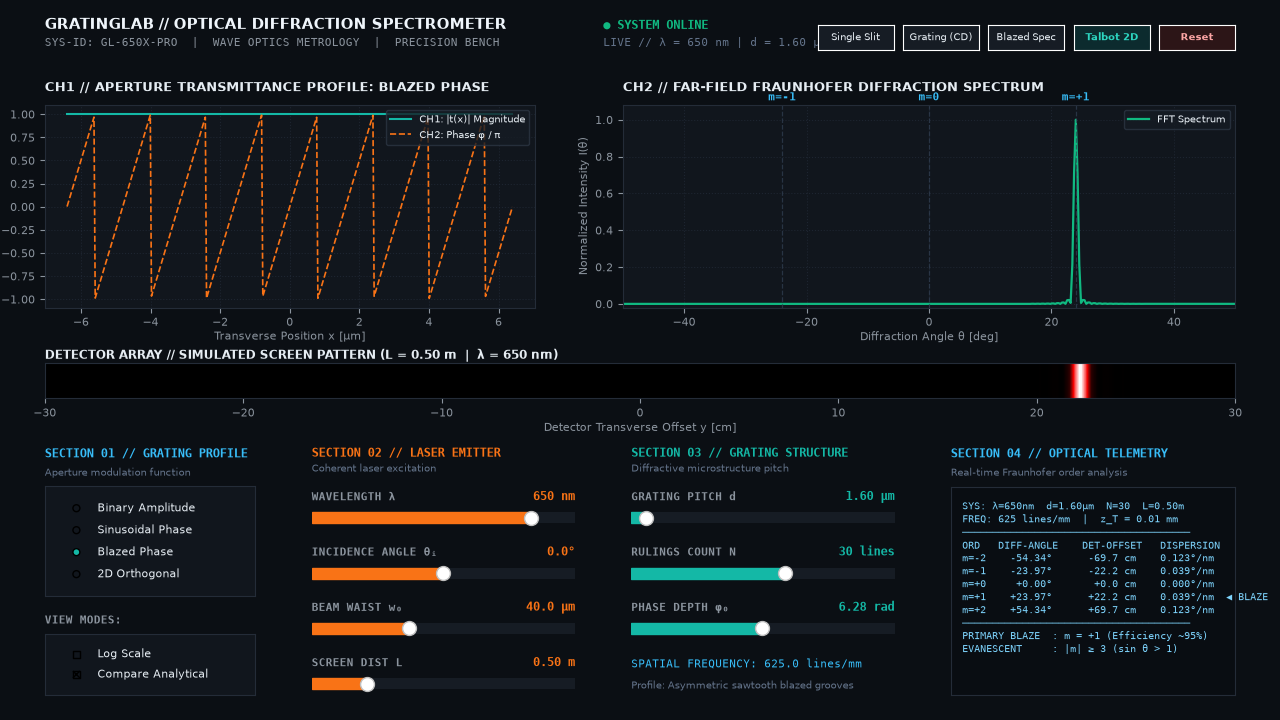
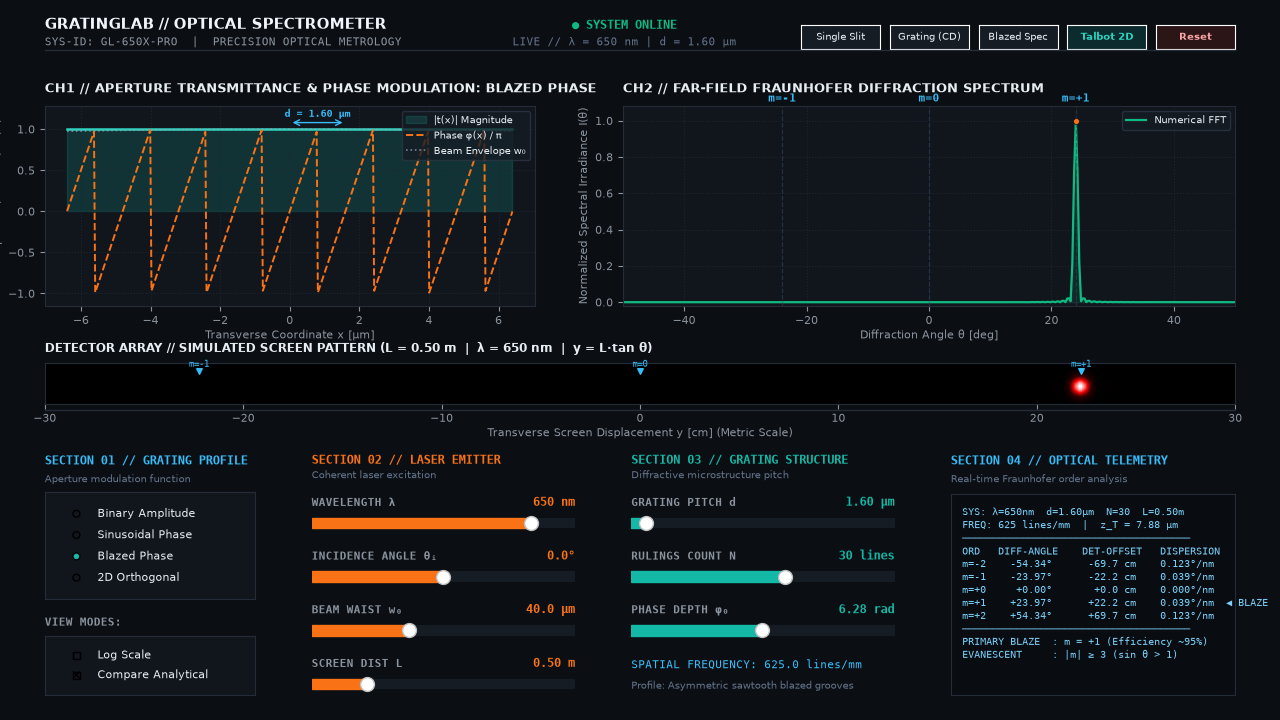
feat(vis): upgrade scientific visualizations to research-grade quality

diff --git a/gratinglab/visualize.py b/gratinglab/visualize.py
@@ -1,16 +1,20 @@
 """
 gratinglab.visualize
 ====================
-Premium scientific instrument dashboard for optical grating diffraction and characterization.
+Research-grade scientific visualization and instrument dashboard for optical grating
+diffraction, Angular Spectrum propagation, and material metrology.
 Inspired by laboratory spectrum analyzers, Bloomberg-grade data density, and modern dark CAD metrology.
 
-Architecture:
-- Matte obsidian chassis (#0b0f14) and dark titanium subplots (#11161d)
-- Cohesive Teal (#14b8a6) and Orange (#f97316) instrument accent system
-- Top navigation bar with system identity, status telemetry, and quick preset buttons
-- Dual-channel oscilloscope simulation workspace (transmittance profile & Fraunhofer spectrum)
-- Calibrated optical detector screen strip
-- Four modular control & telemetry decks with Bloomberg-density order analytics
+Visualizations:
+1. Aperture Plane Transmittance: Field magnitude |t(x)| area fill, phase shift φ(x)/π,
+   illuminating Gaussian beam envelope w₀, and period pitch (d) dimension annotation.
+2. Far-Field Fraunhofer Diffraction: High-resolution FFT spectrum with area fill,
+   analytical N-slit model, single-slit envelope sinc²(β), diffraction peak maximum points,
+   suppressed missing orders, and blaze order highlighting.
+3. Calibrated Optical Detector Array: Physically divergent 2D laser spots, calibrated
+   transverse metric scale y = L·tan(θ) in cm, and downward spot pointer reticles.
+4. Near-Field Talbot Carpet: Multi-plane fractional Talbot self-imaging (z_T, z_T/2, z_T/4),
+   dual physical (µm) and normalized (z/z_T) coordinates, and calibrated wavefield colorbar.
 """
 
 from __future__ import annotations
@@ -18,11 +22,21 @@ import math
 import os
 import sys
 
-# Ensure an interactive backend is used for desktop GUI rendering
+# Ensure an interactive backend is used for desktop GUI rendering if not in headless mode
 import matplotlib
-if matplotlib.get_backend().lower() in ("agg", "template", "pdf", "ps", "svg"):
-    for _backend in ["TkAgg", "QtAgg", "Qt5Agg", "WXAgg"]:
+if os.environ.get("MPLBACKEND", "").lower() != "agg" and matplotlib.get_backend().lower() in ("agg", "template", "pdf", "ps", "svg"):
+    for _backend in ["QtAgg", "TkAgg", "Qt5Agg", "WXAgg"]:
         try:
+            import importlib
+            # Check if backend module can be imported
+            if _backend == "QtAgg":
+                import PyQt6
+            elif _backend == "TkAgg":
+                import tkinter
+            elif _backend == "Qt5Agg":
+                import PyQt5
+            elif _backend == "WXAgg":
+                import wx
             matplotlib.use(_backend, force=True)
             break
         except Exception:
@@ -150,8 +164,8 @@ class GratingLabApp:
         # Tier 3: 4-Column Control Deck & High-Density Telemetry Terminal
         self.gs_main = self.fig.add_gridspec(
             4, 1,
-            height_ratios=[0.38, 3.15, 0.55, 3.75],
-            hspace=0.44,
+            height_ratios=[0.38, 3.2, 0.65, 3.75],
+            hspace=0.46,
             left=0.035, right=0.965, top=0.965, bottom=0.035,
         )
 
@@ -550,7 +564,7 @@ class GratingLabApp:
         self.on_type(self.grating_type)
 
     def update(self, _val=None) -> None:
-        """Perform exact wave-optics calculation, update plots, screen pattern, and telemetry terminal."""
+        """Perform exact wave-optics calculation, update research-grade plots, and telemetry terminal."""
         self.wavelength = self.s_wl.val * 1e-9
         self.period = self.s_period.val * 1e-6
         self.duty = self.s_duty.val
@@ -585,19 +599,36 @@ class GratingLabApp:
         incident_beam = propagation.gaussian_beam(grid.x, w0=self.beam_waist)
         t_illuminated = t_raw * aperture_mask * incident_beam
 
-        # ─── 1. Channel 1: Aperture Plane Plot ───
+        # ─── 1. Channel 1: Aperture Plane Transmittance & Phase ───
         self.ax_profile.clear()
         self.ax_profile.set_facecolor("#11161d")
         x_um = grid.x * 1e6
         crop_mask = np.abs(grid.x) <= (4.0 * self.period)
+        d_um = self.period * 1e6
 
-        self.ax_profile.plot(x_um[crop_mask], np.abs(t_raw)[crop_mask], label="CH1: |t(x)| Magnitude", color="#14b8a6", lw=1.5)
-        self.ax_profile.plot(x_um[crop_mask], np.angle(t_raw)[crop_mask] / math.pi, label="CH2: Phase φ / π", color="#f97316", ls="--", lw=1.2)
-        self.ax_profile.set_title(f"CH1 // APERTURE TRANSMITTANCE PROFILE: {self.grating_type.upper()}", fontsize=9, fontweight="bold", color="#e6edf3", pad=10, loc="left")
-        self.ax_profile.set_xlabel("Transverse Position x [µm]", fontsize=8, color="#8b949e", labelpad=2)
-        self.ax_profile.set_ylabel("Amplitude / Phase Ratio", fontsize=8, color="#8b949e")
+        # Shaded magnitude area fill & sharp outline
+        self.ax_profile.fill_between(x_um[crop_mask], 0, np.abs(t_raw)[crop_mask], color="#14b8a6", alpha=0.18, label="|t(x)| Magnitude")
+        self.ax_profile.plot(x_um[crop_mask], np.abs(t_raw)[crop_mask], color="#2dd4bf", lw=1.8)
+        self.ax_profile.plot(x_um[crop_mask], np.angle(t_raw)[crop_mask] / math.pi, color="#f97316", ls="--", lw=1.4, label="Phase φ(x) / π")
+        self.ax_profile.plot(x_um[crop_mask], np.abs(incident_beam)[crop_mask], color="#94a3b8", ls=":", lw=1.2, alpha=0.75, label="Beam Envelope w₀")
+
+        # Period dimension annotation bracket
+        if 0.5 <= d_um <= (np.sum(crop_mask) * (grid.dx * 1e6)):
+            self.ax_profile.annotate(
+                "", xy=(0.0, 1.08), xytext=(d_um, 1.08),
+                arrowprops=dict(arrowstyle="<->", color="#38bdf8", lw=1.0)
+            )
+            self.ax_profile.text(
+                d_um / 2.0, 1.12, f"d = {d_um:.2f} µm",
+                ha="center", va="bottom", fontsize=7.5, color="#38bdf8", family="monospace", fontweight="bold"
+            )
+
+        self.ax_profile.set_title(f"CH1 // APERTURE TRANSMITTANCE & PHASE MODULATION: {self.grating_type.upper()}", fontsize=9, fontweight="bold", color="#e6edf3", pad=10, loc="left")
+        self.ax_profile.set_xlabel("Transverse Coordinate x [µm]", fontsize=8, color="#8b949e", labelpad=2)
+        self.ax_profile.set_ylabel("Field Amplitude / Phase (rad/π)", fontsize=8, color="#8b949e")
+        self.ax_profile.set_ylim(-1.15, 1.28)
         self.ax_profile.grid(True, linestyle=":", color="#212936", alpha=0.8)
-        leg1 = self.ax_profile.legend(loc="upper right", fontsize=7.5, facecolor="#161c24", edgecolor="#2c3543")
+        leg1 = self.ax_profile.legend(loc="upper right", fontsize=7.2, facecolor="#161c24", edgecolor="#2c3543")
         for text in leg1.get_texts():
             text.set_color("#e6edf3")
 
@@ -608,14 +639,18 @@ class GratingLabApp:
             wavelength=self.wavelength,
             pad_factor=2,
         )
+        theta_rad_dense = np.radians(theta_deg)
 
         self.ax_fft.clear()
         self.ax_fft.set_facecolor("#11161d")
         y_data = np.maximum(intensity, 1e-4) if self.log_scale else intensity
-        self.ax_fft.plot(theta_deg, y_data, label="FFT Spectrum", color="#10b981", lw=1.6)
 
+        # Spectrum area fill & primary trace
+        self.ax_fft.fill_between(theta_deg, 1e-4 if self.log_scale else 0, y_data, color="#10b981", alpha=0.12)
+        self.ax_fft.plot(theta_deg, y_data, label="Numerical FFT", color="#10b981", lw=1.6)
+
+        # Analytical multi-slit model
         if self.compare_analytical and self.grating_type == "Binary Amplitude":
-            theta_rad_dense = np.radians(theta_deg)
             i_analytical = analytical.n_slit_intensity(
                 theta=theta_rad_dense,
                 a=a,
@@ -627,6 +662,13 @@ class GratingLabApp:
             y_analytical = np.maximum(i_analytical, 1e-4) if self.log_scale else i_analytical
             self.ax_fft.plot(theta_deg, y_analytical, label="Analytical N-Slit", color="#f59e0b", ls=":", lw=1.3)
 
+            # Single-slit diffraction envelope sinc²(β)
+            beta_norm = (a / self.wavelength) * np.sin(theta_rad_dense)
+            sinc_sq = np.sinc(beta_norm)**2
+            y_env = np.maximum(sinc_sq, 1e-4) if self.log_scale else sinc_sq
+            self.ax_fft.plot(theta_deg, y_env, label="Slit Envelope sinc²(β)", color="#64748b", ls="-.", lw=1.1, alpha=0.8)
+
+        # Propagating diffraction orders
         orders, evanescent = analytical.order_angles(
             d=self.period,
             wavelength=self.wavelength,
@@ -636,7 +678,7 @@ class GratingLabApp:
         for m, ang_rad in orders.items():
             ang_d = math.degrees(ang_rad)
             if -48.0 <= ang_d <= 48.0:
-                self.ax_fft.axvline(ang_d, color="#334155", linestyle="--", alpha=0.7, lw=0.9)
+                self.ax_fft.axvline(ang_d, color="#334155", linestyle="--", alpha=0.6, lw=0.9)
                 self.ax_fft.text(
                     ang_d,
                     1.01,
@@ -649,18 +691,37 @@ class GratingLabApp:
                     fontweight="bold",
                     family="monospace",
                 )
+                # Diffraction peak tip marker
+                peak_idx = np.argmin(np.abs(theta_deg - ang_d))
+                peak_val = y_data[peak_idx]
+                if peak_val > (1e-3 if self.log_scale else 0.05):
+                    marker_col = "#f97316" if (self.grating_type == "Blazed Phase" and m == 1) else "#38bdf8"
+                    self.ax_fft.scatter(ang_d, peak_val, color=marker_col, s=18, zorder=4, edgecolor="#0b0f14", linewidth=0.5)
+
+        # Suppressed missing orders markers (e.g. m = ±2)
+        if self.grating_type == "Binary Amplitude":
+            missing_list = analytical.missing_orders(self.period, a)
+            for m_miss in missing_list:
+                if m_miss in orders:
+                    ang_miss_d = math.degrees(orders[m_miss])
+                    if -48.0 <= ang_miss_d <= 48.0:
+                        self.ax_fft.scatter(ang_miss_d, 1e-4 if self.log_scale else 0.0, marker="x", color="#ef4444", s=22, zorder=5, lw=1.2)
+                        self.ax_fft.text(
+                            ang_miss_d, 2e-4 if self.log_scale else 0.04, f"m={m_miss:+} (0)",
+                            ha="center", va="bottom", fontsize=6.8, color="#ef4444", family="monospace"
+                        )
 
         self.ax_fft.set_title("CH2 // FAR-FIELD FRAUNHOFER DIFFRACTION SPECTRUM", fontsize=9, fontweight="bold", color="#e6edf3", pad=10, loc="left")
         self.ax_fft.set_xlabel("Diffraction Angle θ [deg]", fontsize=8, color="#8b949e", labelpad=2)
-        self.ax_fft.set_ylabel("Intensity (Log)" if self.log_scale else "Normalized Intensity I(θ)", fontsize=8, color="#8b949e")
+        self.ax_fft.set_ylabel("Relative Log Irradiance log₁₀(I / I₀)" if self.log_scale else "Normalized Spectral Irradiance I(θ)", fontsize=8, color="#8b949e")
         self.ax_fft.set_xlim(-50.0, 50.0)
         if self.log_scale:
             self.ax_fft.set_yscale("log")
-            self.ax_fft.set_ylim(1e-4, 1.2)
+            self.ax_fft.set_ylim(1e-4, 1.25)
         else:
             self.ax_fft.set_ylim(-0.02, 1.08)
         self.ax_fft.grid(True, linestyle=":", color="#212936", alpha=0.8)
-        leg2 = self.ax_fft.legend(loc="upper right", fontsize=7.5, facecolor="#161c24", edgecolor="#2c3543")
+        leg2 = self.ax_fft.legend(loc="upper right", fontsize=7.2, facecolor="#161c24", edgecolor="#2c3543")
         for text in leg2.get_texts():
             text.set_color("#e6edf3")
 
@@ -669,7 +730,10 @@ class GratingLabApp:
         screen_y_cm = propagation.sin_theta_to_screen_position(np.radians(theta_deg), self.screen_dist) * 100.0
         y_screen_linear = np.linspace(-30.0, 30.0, 600)
         i_screen = np.interp(y_screen_linear, screen_y_cm, intensity, left=0.0, right=0.0)
-        strip_2d = np.tile(i_screen, (35, 1))
+
+        # Realistic Gaussian vertical cross-section for laser spots
+        y_vert = np.linspace(-1.0, 1.0, 35)[:, np.newaxis]
+        strip_2d = np.exp(-y_vert**2 / 0.35) * i_screen[np.newaxis, :]
 
         laser_cmap = get_laser_colormap(self.s_wl.val)
         self.ax_screen.imshow(
@@ -679,15 +743,27 @@ class GratingLabApp:
             aspect="auto",
             origin="lower",
         )
+
+        # Spot location pointer triangles
+        for m, ang_rad in orders.items():
+            y_m = self.screen_dist * math.tan(ang_rad) * 100.0
+            if -28.0 <= y_m <= 28.0:
+                self.ax_screen.scatter(y_m, 1.35, marker="v", color="#38bdf8", s=16, zorder=5)
+                self.ax_screen.text(
+                    y_m, 1.48, f"m={m:+d}" if m != 0 else "m=0",
+                    ha="center", va="bottom", fontsize=6.8, color="#38bdf8", family="monospace"
+                )
+
         self.ax_screen.set_title(
-            f"DETECTOR ARRAY // SIMULATED SCREEN PATTERN (L = {self.screen_dist:.2f} m  |  λ = {int(self.s_wl.val)} nm)",
+            f"DETECTOR ARRAY // SIMULATED SCREEN PATTERN (L = {self.screen_dist:.2f} m  |  λ = {int(self.s_wl.val)} nm  |  y = L·tan θ)",
             fontsize=8.5,
             fontweight="bold",
             color="#e6edf3",
-            pad=3,
+            pad=8,
             loc="left",
         )
-        self.ax_screen.set_xlabel("Detector Transverse Offset y [cm]", fontsize=8, color="#8b949e", labelpad=2)
+        self.ax_screen.set_xlabel("Transverse Screen Displacement y [cm] (Metric Scale)", fontsize=8, color="#8b949e", labelpad=2)
+        self.ax_screen.set_ylim(-1.5, 2.0)
         self.ax_screen.set_yticks([])
 
         # ─── 4. Bloomberg Telemetry Terminal Feed ───
@@ -730,17 +806,14 @@ class GratingLabApp:
         self.fig.canvas.draw_idle()
 
     def open_talbot_window(self, _event=None) -> None:
-        """Launch the near-field Talbot carpet simulation in a dark instrument window."""
-        fig_t, ax_t = plt.subplots(figsize=(9, 6), facecolor="#0b0f14")
-        fig_t.canvas.manager.set_window_title("GratingLab // Near-Field Talbot Carpet Analyzer")
-        ax_t.set_facecolor("#11161d")
-        ax_t.tick_params(colors="#8b949e", labelsize=8)
-        for spine in ax_t.spines.values():
-            spine.set_color("#242c38")
-            spine.set_linewidth(0.8)
+        """Launch the near-field Talbot carpet simulation in a dark research-grade window."""
+        fig_t = plt.figure(figsize=(10, 6.5), dpi=100, facecolor="#0b0f14")
+        if hasattr(fig_t.canvas, "manager") and fig_t.canvas.manager is not None:
+            fig_t.canvas.manager.set_window_title("GratingLab // Near-Field Talbot Carpet Analyzer")
+        ax_t = fig_t.add_subplot(111, facecolor="#11161d")
 
         z_t = analytical.talbot_distance(self.period, self.wavelength)
-        grid = gratings.Grid1D(width=20.0 * self.period, num_samples=1500)
+        grid = gratings.Grid1D(width=20.0 * self.period, num_samples=2048)
         t_grating = gratings.binary_amplitude(grid.x, d=self.period, a=self.duty * self.period)
 
         x, z_arr, carpet = propagation.talbot_carpet(
@@ -748,32 +821,60 @@ class GratingLabApp:
             dx=grid.dx,
             wavelength=self.wavelength,
             d=self.period,
-            n_z_steps=200,
+            n_z_steps=250,
             z_max=2.0 * z_t,
         )
 
         crop = np.abs(x) <= (3.0 * self.period)
+        x_crop_um = x[crop] * 1e6
+        z_max_um = z_arr[-1] * 1e6
+        z_t_um = z_t * 1e6
+
         im = ax_t.imshow(
             carpet[:, crop],
-            extent=[x[crop][0] * 1e6, x[crop][-1] * 1e6, 0.0, z_arr[-1] * 1e6],
+            extent=[x_crop_um[0], x_crop_um[-1], 0.0, z_max_um],
             aspect="auto",
             origin="lower",
             cmap="inferno",
         )
-        ax_t.axhline(z_t * 1e6, color="#2dd4bf", ls="--", lw=1.2, label=f"Talbot Length z_T = {z_t*1e6:.2f} µm")
+
+        # Fractional Talbot sub-plane markers
+        ax_t.axhline(z_t_um, color="#2dd4bf", ls="-", lw=1.4, label=f"z = z_T (Full Self-Image, {z_t_um:.2f} µm)")
+        ax_t.axhline(z_t_um * 0.5, color="#f59e0b", ls="--", lw=1.2, label=f"z = z_T/2 (Half-Talbot Shift, {z_t_um*0.5:.2f} µm)")
+        ax_t.axhline(z_t_um * 0.25, color="#f97316", ls=":", lw=1.2, label=f"z = z_T/4 (Frequency Doubling, {z_t_um*0.25:.2f} µm)")
+
+        # Secondary y-axis for normalized propagation distance z / z_T
+        ax_norm = ax_t.twinx()
+        ax_norm.set_ylim(0.0, 2.0)
+        ax_norm.set_ylabel("Normalized Distance z / z_T", fontsize=8.5, color="#38bdf8")
+        ax_norm.tick_params(colors="#38bdf8", labelsize=8)
+        for spine in ax_norm.spines.values():
+            spine.set_color("#242c38")
+
+        ax_t.tick_params(colors="#8b949e", labelsize=8)
+        for spine in ax_t.spines.values():
+            spine.set_color("#242c38")
+            spine.set_linewidth(0.8)
+
         ax_t.set_title(
-            f"NEAR-FIELD ASM PROPAGATION // TALBOT SELF-IMAGING (d = {self.period*1e6:.2f} µm, λ = {self.wavelength*1e9:.0f} nm)",
-            fontsize=9.5, fontweight="bold", color="#e6edf3", pad=10
+            f"NEAR-FIELD ASM WAVEFIELD PROPAGATION // TALBOT SELF-IMAGING PHENOMENON\n"
+            f"Parameters: Pitch d = {self.period*1e6:.2f} µm  |  Wavelength λ = {self.wavelength*1e9:.0f} nm  |  Talbot Distance z_T = {z_t_um:.2f} µm",
+            fontsize=9.2,
+            fontweight="bold",
+            color="#e6edf3",
+            pad=12,
+            loc="left",
         )
-        ax_t.set_xlabel("Transverse Position x [µm]", fontsize=8.5, color="#8b949e")
+        ax_t.set_xlabel("Transverse Coordinate x [µm]", fontsize=8.5, color="#8b949e")
         ax_t.set_ylabel("Propagation Distance z [µm]", fontsize=8.5, color="#8b949e")
-        leg = ax_t.legend(loc="upper right", facecolor="#161c24", edgecolor="#2c3543", fontsize=8)
+
+        leg = ax_t.legend(loc="upper right", fontsize=7.8, facecolor="#161c24", edgecolor="#2c3543")
         for t in leg.get_texts():
             t.set_color("#e6edf3")
 
-        cbar = fig_t.colorbar(im, ax=ax_t, pad=0.02)
+        cbar = fig_t.colorbar(im, ax=ax_norm, pad=0.08)
         cbar.ax.tick_params(colors="#8b949e", labelsize=8)
-        cbar.set_label("Wavefield Intensity |U(x,z)|²", fontsize=8.5, color="#8b949e")
+        cbar.set_label("Normalized Wavefield Irradiance |U(x, z)|²", fontsize=8.5, color="#8b949e")
         cbar.outline.set_edgecolor("#242c38")
 
         plt.tight_layout()
